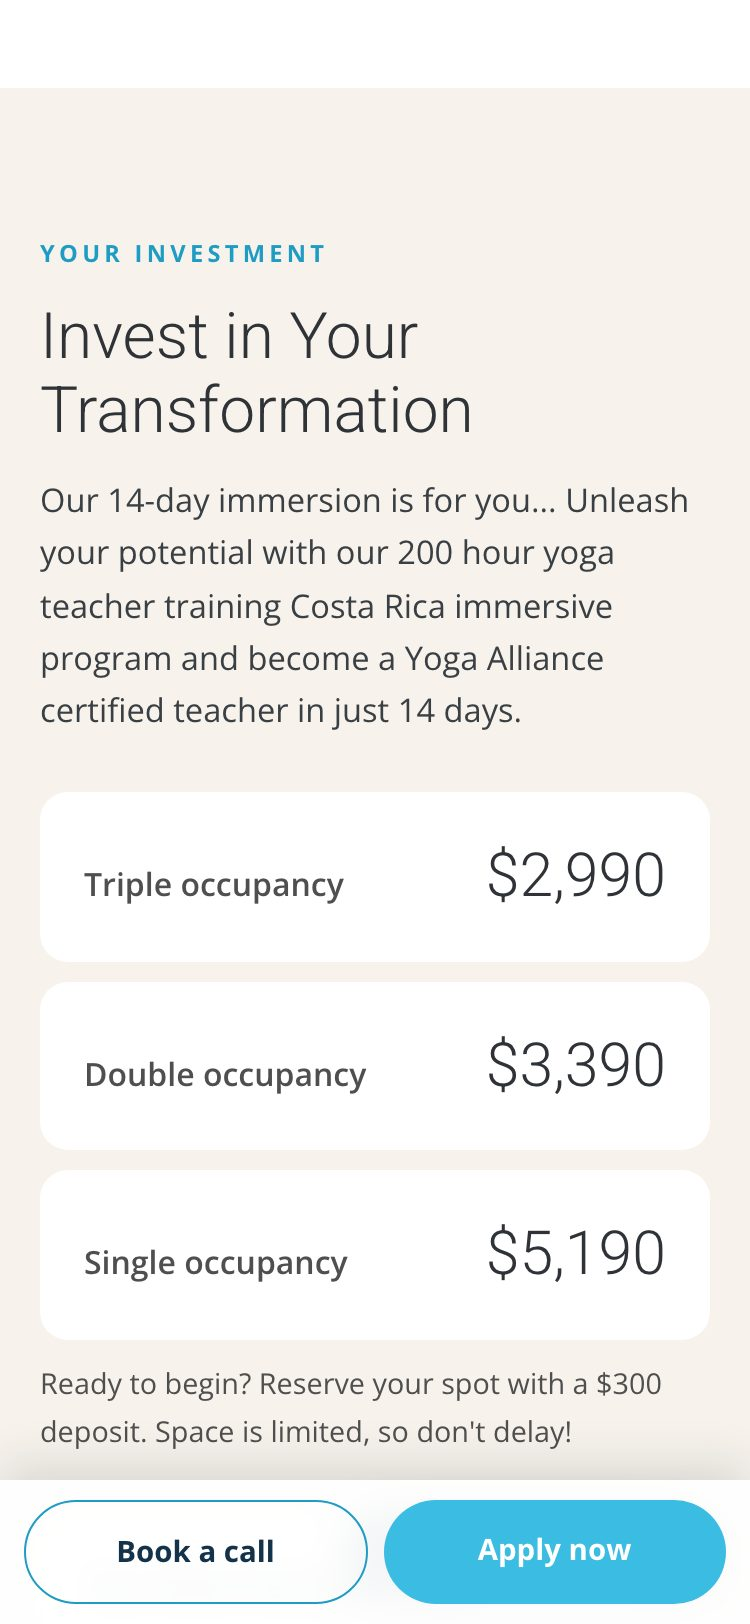
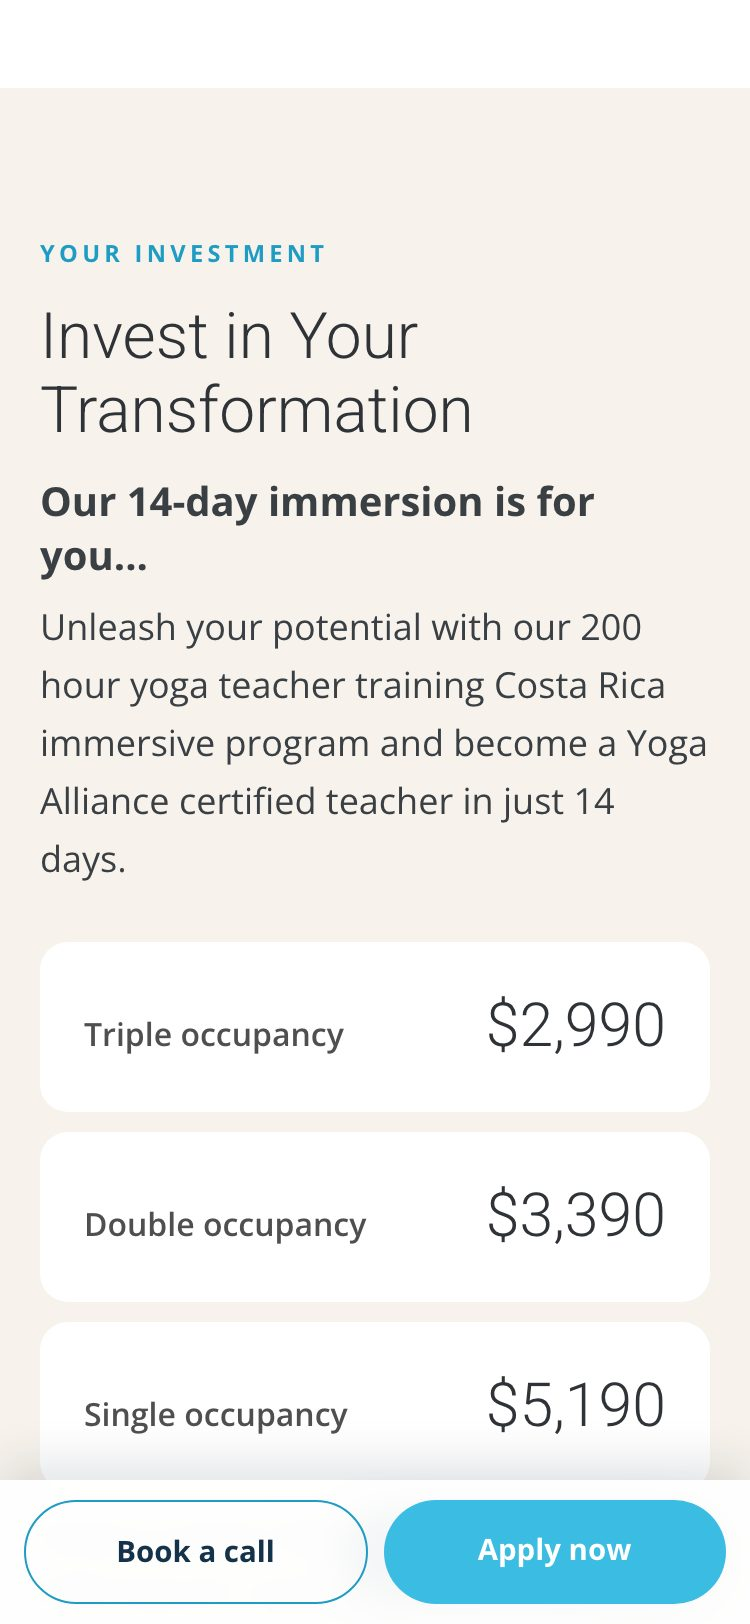
Blue Osa: larger phone type in version 3, taller phone frame, call bar question
Version 3: no reading text below 16 px on phones, the bold line above the
prices is back. Phase 1 page: taller phone frame, 31 screens instead of 30,
an eighth question about the existing call bar, two pictures retaken.

diff --git a/src/app/[locale]/(site)/proposals/blue-osa/phase-1/PhaseOneContent.tsx b/src/app/[locale]/(site)/proposals/blue-osa/phase-1/PhaseOneContent.tsx
@@ -74,7 +74,7 @@ const CHANGES = [
   {
     title: "The length on a phone",
     today: "About 50 screens to scroll. The date list alone appears five times down the page.",
-    next: "About 30 in the mockup, with your full text, every FAQ entry, all three films and both galleries in. Photos sit in a grid and open full screen.",
+    next: "About 31 in the mockup, with your full text, every FAQ entry, all three films and both galleries in. Photos sit in a grid and open full screen.",
   },
 ];
 
@@ -107,7 +107,7 @@ const PAIRS = [
 ];
 
 const NUMBERS = [
-  { big: "50 → 30", text: "phone screens to scroll, with your full text still on the page" },
+  { big: "50 → 31", text: "phone screens to scroll, with your full text still on the page" },
   { big: "17 = 17", text: "times your exact search phrase is in the page text, today and on the new page" },
   { big: "Every screen", text: "has Apply and the call in reach. Today, Apply stops halfway down." },
 ];
@@ -198,6 +198,10 @@ const QUESTIONS = [
   {
     q: "Can you guarantee our rankings?",
     a: "No, and nobody honestly can: rankings depend on Google and on your competitors. What I can guarantee is that everything Google reads on the page stays in place (title, headings, URL, meta, schema, the text), that the page is at least as fast as today, and that your current page stays saved, so it can be switched back within the hour.",
+  },
+  {
+    q: "We already have a call bar at the bottom. What happens to it?",
+    a: "On this page the new bar takes its place, with your same call link and Apply next to it, so there are never two bars. Everything else in that tool stays untouched. How it is switched off for this one page I confirm on staging.",
   },
   {
     q: "What if the new page scores worse on staging?",

diff --git a/src/app/[locale]/(site)/proposals/blue-osa/200-hour/v2.module.css b/src/app/[locale]/(site)/proposals/blue-osa/200-hour/v2.module.css
@@ -351,4 +351,13 @@ li.scheduleHead { display: block; padding-top: 0; font-size: 0.74rem; font-weigh
   .v3 .expectList li { padding: 14px 16px; }
 }
 .swipeHint { display: none; }
-.v3 .investLead { margin: 14px 0 22px; max-width: 34rem; font-size: 1.02rem; line-height: 1.6; }
+.v3 .investHead { margin: 14px 0 0; font-size: 1.25rem; font-weight: 700; line-height: 1.35; }
+.v3 .investLead { margin: 8px 0 22px; max-width: 34rem; font-size: 1.125rem; line-height: 1.6; }
+/* Phones: reading text never below 16 px, long text at 17 px. His page uses large type, so the new one must not read as "smaller". */
+@media (max-width: 640px) {
+  .v3 .faqGroup p, .v3 .fullBody p { font-size: 1.0625rem; line-height: 1.65; }
+  .v3 .module li, .v3 .gText, .v3 .gText blockquote, .v3 .voices blockquote, .v3 .expectList li, .v3 .why li, .v3 .guarantee p,
+  .v3 .checks li, .v3 .learn li, .v3 .schedule li, .v3 .types li, .v3 .threeWays p, .v3 .callBox p, .v3 .datesFoot, .v3 .priceLine,
+  .v3 :global(#investment) li, .v3 :global(#investment) p:not([class]), .v3 .investLead ~ p, .v3 .datesSub { font-size: 1rem; }
+  .v3 .investLead { font-size: 1.125rem; }
+}

diff --git a/src/app/[locale]/(site)/proposals/blue-osa/phase-1/phase1.module.css b/src/app/[locale]/(site)/proposals/blue-osa/phase-1/phase1.module.css
@@ -1,7 +1,7 @@
 /* Phase 1 page for Blue Osa, on top of ../../proposal.module.css. Blue accents from their brand. */
 
 /* The page twice: a desktop browser (page rendered at 1280 px, scaled) and a phone (375 px) */
-.devices { --frame: clamp(460px, calc(100vh - 190px), 720px); display: grid; grid-template-columns: 1fr 395px; gap: 32px; align-items: start; }
+.devices { --frame: clamp(520px, calc(100vh - 140px), 800px); display: grid; grid-template-columns: 1fr 395px; gap: 32px; align-items: start; }
 .desktop { border-radius: 16px; overflow: hidden; background: #fff; border: 1px solid #ddd6ca; box-shadow: 0 30px 70px #2a20140f; }
 .desktopView { position: relative; height: var(--frame); overflow: hidden; }
 .phoneCol { display: grid; justify-items: center; gap: 12px; }

diff --git a/src/app/[locale]/(site)/proposals/blue-osa/200-hour/TrainingPageV2.tsx b/src/app/[locale]/(site)/proposals/blue-osa/200-hour/TrainingPageV2.tsx
@@ -534,7 +534,7 @@ export default function TrainingPageV2({ heading, body, version = 2 }: { heading
           <div data-reveal>
             <p className={base.kicker}>Your investment</p>
             <h2 className={heading}>Invest in Your Transformation</h2>
-            {v3 && <p className={styles.investLead}>{INVEST_LIVE.join(" ")}</p>}
+            {v3 && <><p className={styles.investHead}>{INVEST_LIVE[0]}</p><p className={styles.investLead}>{INVEST_LIVE[1]}</p></>}
             <div className={base.priceTable}>
               {PRICES.map((p) => <div key={p.room}><span>{p.room}</span><strong className={heading}>{p.price}</strong></div>)}
             </div>
